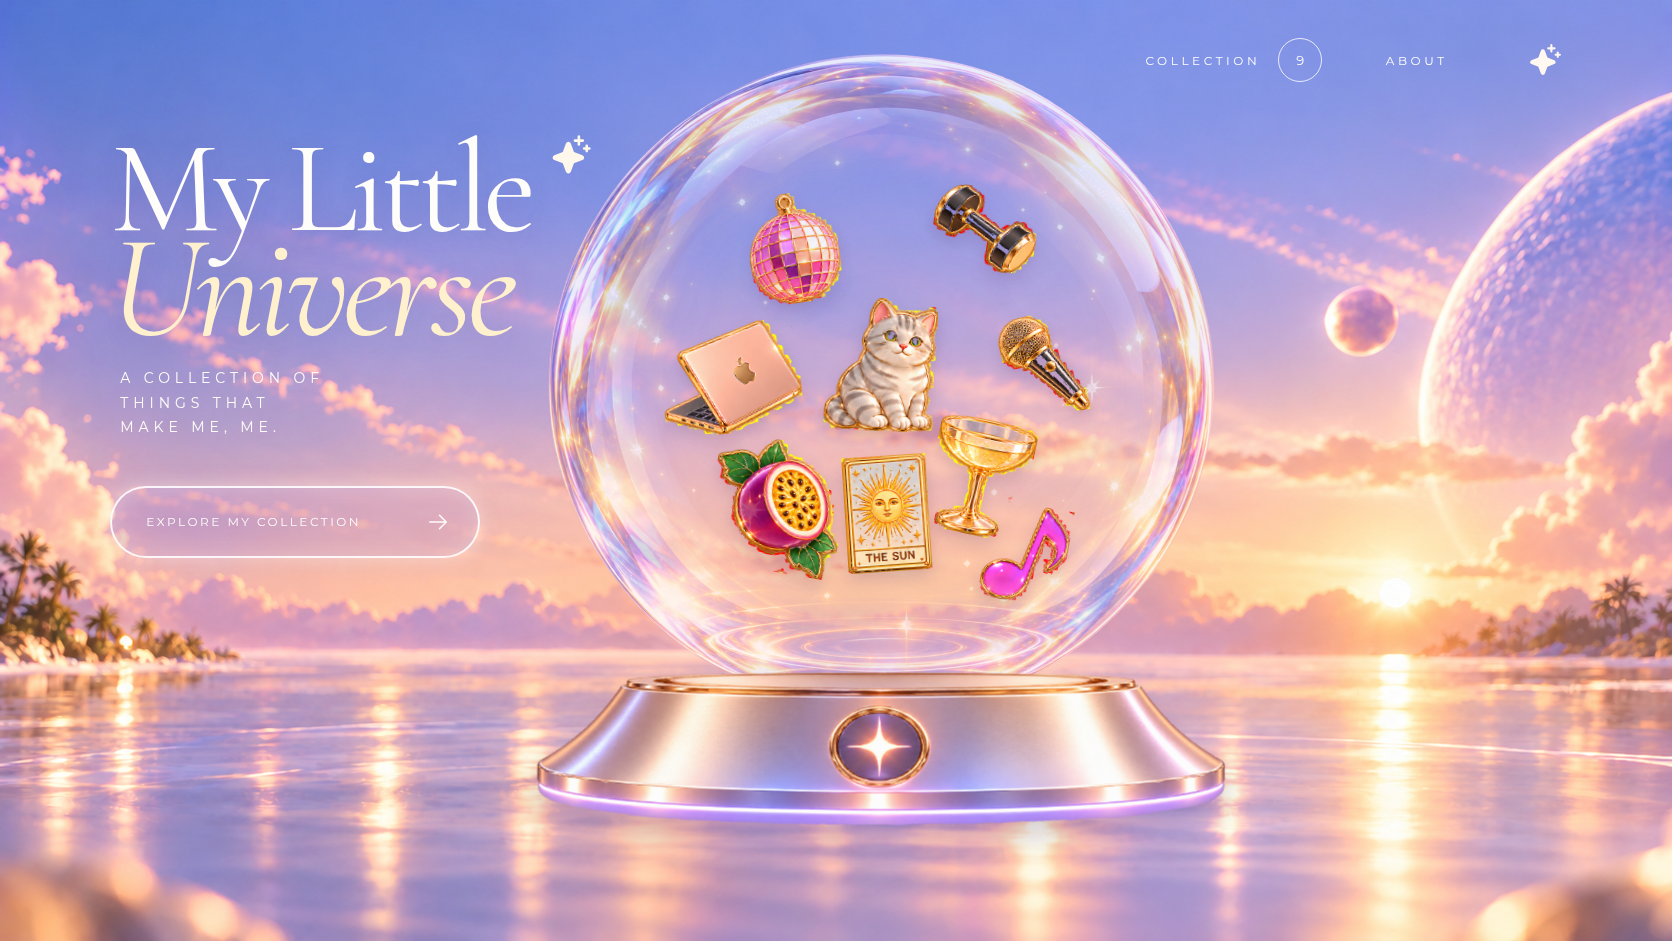
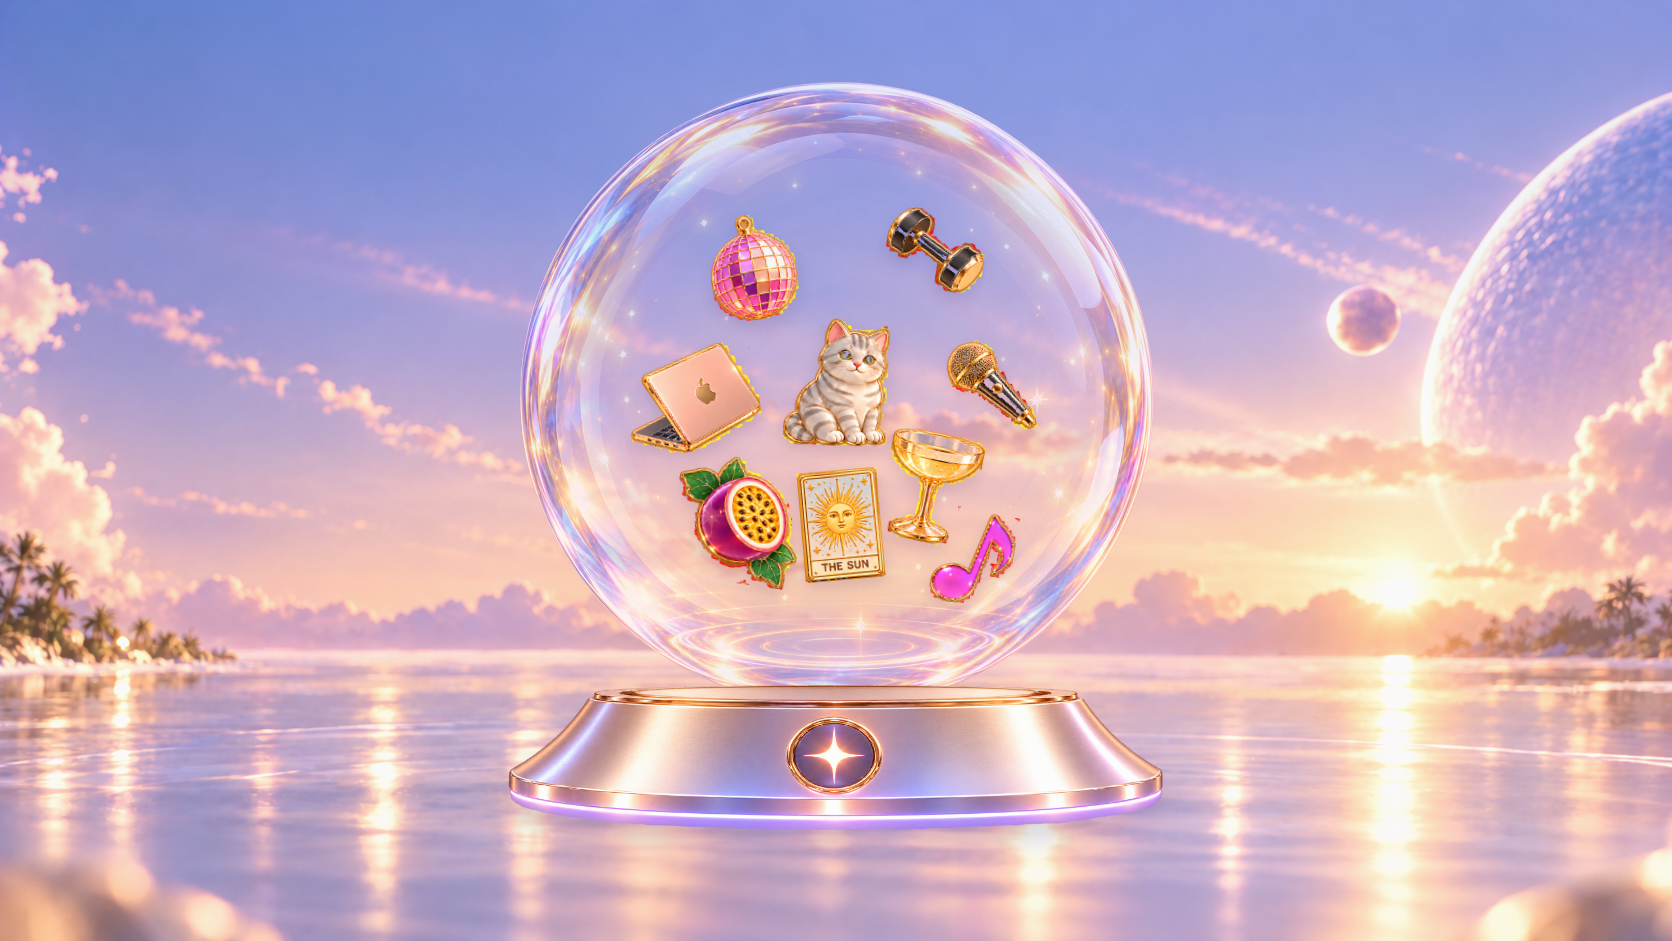
Match the clean centered universe composition

diff --git a/src/styles.css b/src/styles.css
@@ -1,1 +1,259 @@
-:root{font-family:'Montserrat',sans-serif;color:#fffdf9;background:#818ed7;font-synthesis:none;text-rendering:optimizeLegibility}*{box-sizing:border-box}html{scroll-behavior:smooth}body{margin:0;min-width:320px;min-height:100vh}button,a{font:inherit}button{color:inherit}button:focus-visible,a:focus-visible{outline:2px solid #fff;outline-offset:5px}.site-shell{min-height:100vh;overflow:hidden;background-color:#8994db;background-image:var(--site-background);background-position:center top;background-size:cover;background-attachment:fixed}.hero{position:relative;min-height:100svh;padding:38px clamp(34px,6.6vw,112px) 28px}.site-header{position:relative;z-index:20;display:flex;flex-direction:row-reverse;align-items:center;gap:clamp(36px,5vw,80px);min-height:42px}.site-header nav{display:flex;align-items:center;gap:clamp(24px,3.8vw,64px);margin-left:auto}.site-header nav button,.site-header nav a{border:0;padding:10px 0;color:#fff;background:transparent;text-decoration:none;text-transform:uppercase;letter-spacing:.3em;font-size:12px;cursor:pointer}.collection-count{display:grid;width:44px;height:44px;place-items:center;margin-left:calc(clamp(24px,3.8vw,64px)*-.72);border:1px solid #ffffffd1;border-radius:50%;font-size:13px}.brand-mark{display:grid;place-items:center;color:#fff8f1}.hero__layout{position:relative;z-index:2;display:grid;grid-template-columns:minmax(330px,.72fr) minmax(600px,1.25fr);align-items:center;max-width:1500px;min-height:calc(100svh - 108px);margin:0 auto}.hero__copy{z-index:5;align-self:start;padding-top:60px}.title-row{position:relative;width:max-content}h1,h2{margin:0;font-family:'Cormorant Garamond',Georgia,serif;font-weight:400}.hero h1{font-size:clamp(76px,7.8vw,132px);line-height:.72;letter-spacing:-.048em;text-shadow:0 4px 25px #67599a26}.hero h1 em{color:#fff1cd;font-size:1.12em;font-weight:400}.title-sparkle{position:absolute;top:-8px;right:-62px;color:#fff7eb}.hero__tagline{margin:25px 0 46px 10px;text-transform:uppercase;font-size:14px;line-height:1.75;letter-spacing:.35em}.primary-cta{display:flex;width:min(100%,370px);align-items:center;justify-content:space-between;padding:22px 28px 22px 34px;border:2px solid #ffffffe6;border-radius:999px;background:#b68ecf42;box-shadow:inset 0 0 20px #ffffff3d,0 0 18px #ffefe884;text-transform:uppercase;letter-spacing:.21em;font-size:12px;cursor:pointer;transition:.18s}.primary-cta:hover{transform:translateY(-3px);background:#cfa5df61}.universe{position:relative;justify-self:start;width:min(67vw,820px);aspect-ratio:1/1.02;margin-left:-170px;margin-top:-4vh}.orb{position:absolute;z-index:3;top:-15px;left:50%;width:82%;aspect-ratio:1;transform:translateX(-50%)}.orb__glass{position:absolute;inset:0;width:100%;height:100%;object-fit:contain;pointer-events:none;user-select:none}.orb__glass--back{z-index:0;opacity:.86}.orb__glass--front{z-index:5;opacity:.36;mix-blend-mode:screen}.orb__pins{position:absolute;z-index:2;inset:7%;border-radius:50%}.pin{position:absolute;top:var(--y);left:var(--x);width:var(--size);aspect-ratio:1;padding:0;border:0;background:transparent;cursor:pointer;transform:translate(-50%,-50%) rotate(var(--rotation));animation:pin-float 6s ease-in-out var(--delay) infinite;transition:filter .18s}.pin img{width:100%;height:100%;object-fit:contain;filter:drop-shadow(0 8px 8px #54336d33)}.pin--far{opacity:.9}.pin--near{z-index:3}.pin:hover,.pin:focus-visible{z-index:8;filter:drop-shadow(0 0 12px #fff7d5f2)}@keyframes pin-float{0%,100%{transform:translate(-50%,-50%) rotate(var(--rotation))}50%{transform:translate(-50%,calc(-50% - 9px)) rotate(calc(var(--rotation) + 2deg))}}.universe__base{position:absolute;z-index:4;left:50%;bottom:4.5%;width:84%;height:31%;object-fit:contain;transform:translateX(-50%) scaleY(.86);transform-origin:center bottom;filter:drop-shadow(0 18px 16px #52429b38)}.collection{position:relative;z-index:4;min-height:100vh;padding:110px max(6vw,34px) 130px;color:#5f517f;background:#fcf4fbf0}.eyebrow{margin:0 0 14px;text-transform:uppercase;letter-spacing:.32em;font-size:11px}.collection>.eyebrow,.collection>h2,.collection__intro{text-align:center}.collection h2,.about h2{font-size:clamp(56px,6vw,92px);line-height:.9}.collection__intro{margin:22px auto 55px;color:#84799d;text-align:center}.collection__grid{display:grid;grid-template-columns:repeat(3,minmax(0,1fr));gap:22px;max-width:1140px;margin:0 auto}.collection-card{display:flex;min-height:375px;flex-direction:column;align-items:flex-start;padding:18px 18px 28px;border:1px solid #7e68a021;border-radius:30px;color:#5e5079;background:#ffffff99;box-shadow:0 18px 44px #62538a14;text-align:left;cursor:pointer;transition:.18s}.collection-card:hover{transform:translateY(-7px);box-shadow:0 24px 52px #62538a24}.collection-card__image{display:grid;width:100%;height:265px;place-items:center;margin-bottom:20px;border-radius:22px;background:#f2edf7}.collection-card img{max-width:72%;max-height:72%;filter:drop-shadow(0 13px 12px #5d467926)}.collection-card__category{margin-bottom:7px;color:#a191b6;text-transform:uppercase;letter-spacing:.22em;font-size:9px}.collection-card strong{font-family:'Cormorant Garamond',Georgia,serif;font-size:27px;font-weight:400}.about{display:grid;min-height:65vh;place-items:center;align-content:center;padding:100px 24px;color:#fff;text-align:center}.about h2{max-width:920px}.about>p:last-child{max-width:590px;margin-top:25px;line-height:1.8}.dialog-backdrop{position:fixed;z-index:50;inset:0;display:grid;place-items:center;padding:24px;background:#3d31655c;backdrop-filter:blur(16px)}.pin-dialog{position:relative;display:grid;grid-template-columns:.9fr 1.1fr;width:min(760px,100%);overflow:hidden;border:1px solid #ffffffd1;border-radius:32px;color:#61527b;background:#fffafcf0;box-shadow:0 30px 100px #43347359}.icon-button{position:absolute;z-index:2;top:18px;right:18px;display:grid;width:44px;height:44px;place-items:center;padding:0;border:1px solid #6653843d;border-radius:50%;color:#61527b;background:#ffffffb8;cursor:pointer}.pin-dialog__visual{display:grid;min-height:410px;place-items:center;background:#eee8f5}.pin-dialog__visual img{max-width:68%;max-height:280px;filter:drop-shadow(0 18px 18px #58437733)}.pin-dialog__copy{align-self:center;padding:80px 55px 60px}.pin-dialog h2{font-size:58px;line-height:.92}.pin-dialog__copy>p:last-child{margin-top:24px;color:#7d718f;line-height:1.7}@media(max-width:1100px){.hero{padding-inline:38px}.hero__layout{grid-template-columns:minmax(300px,.75fr) minmax(470px,1.1fr)}.hero h1{font-size:clamp(70px,8.5vw,98px)}.universe{width:min(70vw,690px);margin-left:-62px}}@media(max-width:820px){.site-shell{background-position:58% top;background-attachment:scroll}.hero{min-height:auto;padding:24px 22px 58px}.site-header{flex-direction:row;justify-content:space-between}.site-header nav{gap:20px;margin-left:0}.site-header nav button,.site-header nav a{letter-spacing:.2em;font-size:10px}.collection-count{display:none}.hero__layout{display:flex;min-height:auto;flex-direction:column;padding-top:65px}.hero__copy{width:100%;padding:0}.hero h1{font-size:clamp(72px,22vw,112px)}.hero__tagline{margin-top:34px}.primary-cta{width:100%}.universe{width:min(112vw,690px);margin:30px -8vw 0}.collection{padding-inline:20px}.collection__grid{grid-template-columns:repeat(2,minmax(0,1fr))}.collection-card{min-height:300px}.collection-card__image{height:210px}}@media(max-width:540px){.site-header nav a{display:none}.title-sparkle{right:-34px;width:30px}.hero__tagline{font-size:12px}.universe{width:125vw;margin-left:-12vw;margin-right:-25vw}.collection__grid{grid-template-columns:1fr}.collection-card__image{height:250px}.pin-dialog{grid-template-columns:1fr;max-height:calc(100svh - 32px);overflow-y:auto}.pin-dialog__visual{min-height:240px}.pin-dialog__visual img{max-height:175px}.pin-dialog__copy{padding:36px 28px 40px}.pin-dialog h2{font-size:46px}}@media(prefers-reduced-motion:reduce){html{scroll-behavior:auto}*,*::before,*::after{animation-duration:.01ms!important;animation-iteration-count:1!important;scroll-behavior:auto!important;transition-duration:.01ms!important}}
+:root {
+  font-family: 'Montserrat', sans-serif;
+  color: #fffdf9;
+  background: #8a98dc;
+  font-synthesis: none;
+  text-rendering: optimizeLegibility;
+}
+
+* { box-sizing: border-box; }
+html { scroll-behavior: smooth; }
+body { margin: 0; min-width: 320px; min-height: 100vh; }
+button, a { font: inherit; }
+button { color: inherit; }
+button:focus-visible, a:focus-visible { outline: 2px solid #fff; outline-offset: 5px; }
+h1, h2 { margin: 0; font-family: 'Cormorant Garamond', Georgia, serif; font-weight: 400; }
+
+.site-shell { min-height: 100vh; overflow: hidden; background: #8a98dc; }
+.hero { position: relative; min-height: 100svh; overflow: hidden; isolation: isolate; }
+
+.hero::before {
+  position: absolute;
+  z-index: -2;
+  inset: -2px;
+  content: '';
+  background-color: #8a98dc;
+  background-image: var(--site-background);
+  background-position: center center;
+  background-size: cover;
+  filter: saturate(.82) brightness(1.055) contrast(.96);
+}
+
+.hero::after {
+  position: absolute;
+  z-index: -1;
+  inset: 0;
+  content: '';
+  pointer-events: none;
+  background:
+    linear-gradient(180deg, rgba(116, 141, 218, .12), transparent 42%),
+    linear-gradient(0deg, rgba(255, 217, 207, .08), transparent 44%);
+}
+
+.hero__layout {
+  position: relative;
+  display: grid;
+  min-height: 100svh;
+  place-items: center;
+  padding-top: 2.2vh;
+}
+
+.universe {
+  position: relative;
+  width: min(48vw, 83vh, 780px);
+  aspect-ratio: 1 / 1.04;
+}
+
+.orb {
+  position: absolute;
+  z-index: 3;
+  top: 0;
+  left: 50%;
+  width: 82%;
+  aspect-ratio: 1;
+  transform: translateX(-50%);
+}
+
+.orb__glass {
+  position: absolute;
+  inset: 0;
+  width: 100%;
+  height: 100%;
+  object-fit: contain;
+  pointer-events: none;
+  user-select: none;
+}
+
+.orb__glass--back { z-index: 0; opacity: .8; }
+.orb__glass--front { z-index: 5; opacity: .38; mix-blend-mode: screen; }
+
+.orb__pins {
+  position: absolute;
+  z-index: 2;
+  inset: 7%;
+  border-radius: 50%;
+}
+
+.pin {
+  position: absolute;
+  top: var(--y);
+  left: var(--x);
+  width: var(--size);
+  aspect-ratio: 1;
+  padding: 0;
+  border: 0;
+  background: transparent;
+  cursor: pointer;
+  transform: translate(-50%, -50%) rotate(var(--rotation));
+  transition: filter .18s ease, transform .18s ease;
+}
+
+.pin img {
+  width: 100%;
+  height: 100%;
+  object-fit: contain;
+  filter: drop-shadow(0 7px 8px rgba(84, 51, 109, .18));
+}
+
+.pin--far { opacity: .94; }
+.pin--near { z-index: 3; }
+.pin:hover, .pin:focus-visible {
+  z-index: 8;
+  filter: drop-shadow(0 0 12px rgba(255, 247, 213, .95));
+  transform: translate(-50%, -50%) rotate(var(--rotation)) scale(1.055);
+}
+
+.universe__base {
+  position: absolute;
+  z-index: 4;
+  left: 50%;
+  bottom: 2.6%;
+  width: 84%;
+  height: 31%;
+  object-fit: contain;
+  transform: translateX(-50%) scaleY(.86);
+  transform-origin: center bottom;
+  filter: drop-shadow(0 16px 14px rgba(82, 66, 155, .19));
+}
+
+.collection {
+  position: relative;
+  z-index: 4;
+  min-height: 100vh;
+  padding: 110px max(6vw, 34px) 130px;
+  color: #5f517f;
+  background: rgba(252, 244, 251, .96);
+}
+
+.eyebrow { margin: 0 0 14px; text-transform: uppercase; letter-spacing: .32em; font-size: 11px; }
+.collection > .eyebrow, .collection > h2, .collection__intro { text-align: center; }
+.collection h2, .about h2 { font-size: clamp(56px, 6vw, 92px); line-height: .9; }
+.collection__intro { margin: 22px auto 55px; color: #84799d; }
+
+.collection__grid {
+  display: grid;
+  grid-template-columns: repeat(3, minmax(0, 1fr));
+  gap: 22px;
+  max-width: 1140px;
+  margin: 0 auto;
+}
+
+.collection-card {
+  display: flex;
+  min-height: 375px;
+  flex-direction: column;
+  align-items: flex-start;
+  padding: 18px 18px 28px;
+  border: 1px solid rgba(126, 104, 160, .13);
+  border-radius: 30px;
+  color: #5e5079;
+  background: rgba(255, 255, 255, .6);
+  box-shadow: 0 18px 44px rgba(98, 83, 138, .08);
+  text-align: left;
+  cursor: pointer;
+  transition: transform .18s ease, box-shadow .18s ease;
+}
+
+.collection-card:hover { transform: translateY(-7px); box-shadow: 0 24px 52px rgba(98, 83, 138, .14); }
+.collection-card__image { display: grid; width: 100%; height: 265px; place-items: center; margin-bottom: 20px; border-radius: 22px; background: #f2edf7; }
+.collection-card img { max-width: 72%; max-height: 72%; filter: drop-shadow(0 13px 12px rgba(93, 70, 121, .15)); }
+.collection-card__category { margin-bottom: 7px; color: #a191b6; text-transform: uppercase; letter-spacing: .22em; font-size: 9px; }
+.collection-card strong { font-family: 'Cormorant Garamond', Georgia, serif; font-size: 27px; font-weight: 400; }
+
+.about {
+  display: grid;
+  min-height: 65vh;
+  place-items: center;
+  align-content: center;
+  padding: 100px 24px;
+  color: #fff;
+  background: linear-gradient(160deg, #8293da, #b59bd7 55%, #efb8bd);
+  text-align: center;
+}
+.about h2 { max-width: 920px; }
+.about > p:last-child { max-width: 590px; margin-top: 25px; line-height: 1.8; }
+
+.dialog-backdrop {
+  position: fixed;
+  z-index: 50;
+  inset: 0;
+  display: grid;
+  place-items: center;
+  padding: 24px;
+  background: rgba(61, 49, 101, .36);
+  backdrop-filter: blur(16px);
+}
+
+.pin-dialog {
+  position: relative;
+  display: grid;
+  grid-template-columns: .9fr 1.1fr;
+  width: min(760px, 100%);
+  overflow: hidden;
+  border: 1px solid rgba(255, 255, 255, .82);
+  border-radius: 32px;
+  color: #61527b;
+  background: rgba(255, 250, 252, .94);
+  box-shadow: 0 30px 100px rgba(67, 52, 115, .35);
+}
+
+.icon-button {
+  position: absolute;
+  z-index: 2;
+  top: 18px;
+  right: 18px;
+  display: grid;
+  width: 44px;
+  height: 44px;
+  place-items: center;
+  padding: 0;
+  border: 1px solid rgba(102, 83, 132, .24);
+  border-radius: 50%;
+  color: #61527b;
+  background: rgba(255, 255, 255, .72);
+  cursor: pointer;
+}
+
+.pin-dialog__visual { display: grid; min-height: 410px; place-items: center; background: #eee8f5; }
+.pin-dialog__visual img { max-width: 68%; max-height: 280px; filter: drop-shadow(0 18px 18px rgba(88, 67, 119, .2)); }
+.pin-dialog__copy { align-self: center; padding: 80px 55px 60px; }
+.pin-dialog h2 { font-size: 58px; line-height: .92; }
+.pin-dialog__copy > p:last-child { margin-top: 24px; color: #7d718f; line-height: 1.7; }
+
+@media (max-width: 820px) {
+  .hero::before { background-position: 57% center; }
+  .hero__layout { padding-top: 0; }
+  .universe { width: min(116vw, 76vh, 700px); transform: translateY(-1vh); }
+  .orb { width: 84%; }
+  .universe__base { width: 88%; bottom: 2.5%; }
+  .collection { padding-inline: 20px; }
+  .collection__grid { grid-template-columns: repeat(2, minmax(0, 1fr)); }
+  .collection-card { min-height: 300px; }
+  .collection-card__image { height: 210px; }
+}
+
+@media (max-width: 540px) {
+  .universe { width: min(126vw, 72vh, 650px); }
+  .collection__grid { grid-template-columns: 1fr; }
+  .collection-card__image { height: 250px; }
+  .pin-dialog { grid-template-columns: 1fr; max-height: calc(100svh - 32px); overflow-y: auto; }
+  .pin-dialog__visual { min-height: 240px; }
+  .pin-dialog__visual img { max-height: 175px; }
+  .pin-dialog__copy { padding: 36px 28px 40px; }
+  .pin-dialog h2 { font-size: 46px; }
+}
+
+@media (prefers-reduced-motion: reduce) {
+  html { scroll-behavior: auto; }
+  *, *::before, *::after { scroll-behavior: auto !important; transition-duration: .01ms !important; }
+}

diff --git a/src/App.jsx b/src/App.jsx
@@ -1,5 +1,5 @@
 import { useEffect, useRef, useState } from 'react';
-import { ArrowRight, Sparkle, X } from '@phosphor-icons/react';
+import { Sparkle, X } from '@phosphor-icons/react';
 import pins from './pins.json';
 
 const assetUrl = (path) => `${import.meta.env.BASE_URL}${path.replace(/^\//, '')}`;
@@ -38,20 +38,10 @@ function PinDialog({ pin, onClose }) {
 
 export default function App() {
   const [selectedPin, setSelectedPin] = useState(null);
-  const goToCollection = () => document.getElementById('collection')?.scrollIntoView({behavior:'smooth'});
   return (
     <div className="site-shell" style={{'--site-background': `url("${assetUrl('/assets/background.png')}")`}}>
       <section className="hero" id="top">
-        <header className="site-header">
-          <a className="brand-mark" href="#top" aria-label="Home"><Sparkle size={34} weight="fill" /></a>
-          <nav aria-label="Primary navigation"><button onClick={goToCollection}>Collection</button><span className="collection-count">9</span><a href="#about">About</a></nav>
-        </header>
         <div className="hero__layout">
-          <div className="hero__copy">
-            <div className="title-row"><h1>My Little<br/><em>Universe</em></h1><Sparkle className="title-sparkle" size={42} weight="fill" /></div>
-            <p className="hero__tagline">A collection of<br/>things that<br/>make me, me.</p>
-            <button className="primary-cta" onClick={goToCollection}><span>Explore my collection</span><ArrowRight size={24}/></button>
-          </div>
           <div className="universe" aria-label="Interactive collection inside a glass sphere">
             <div className="orb">
               <img className="orb__glass orb__glass--back" src={assetUrl('/assets/orb-glass.png')} alt=""/>
